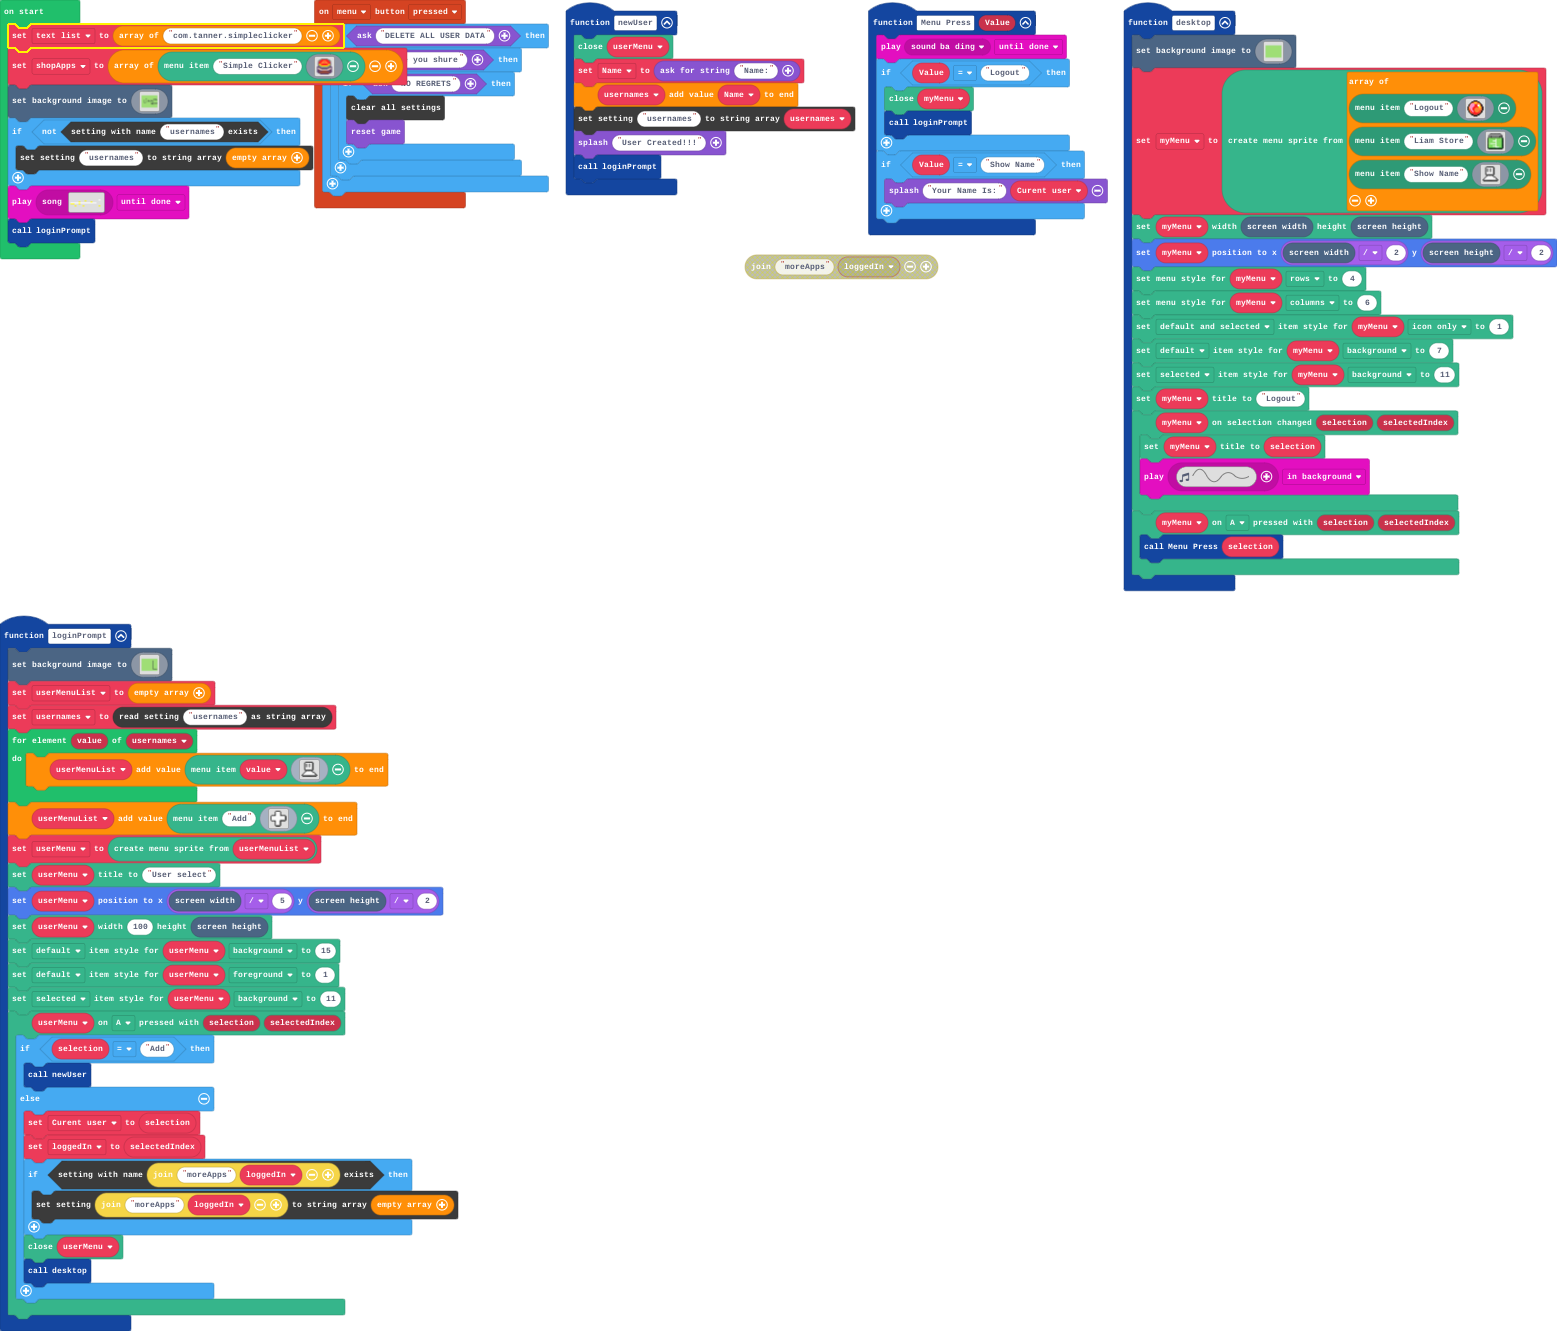
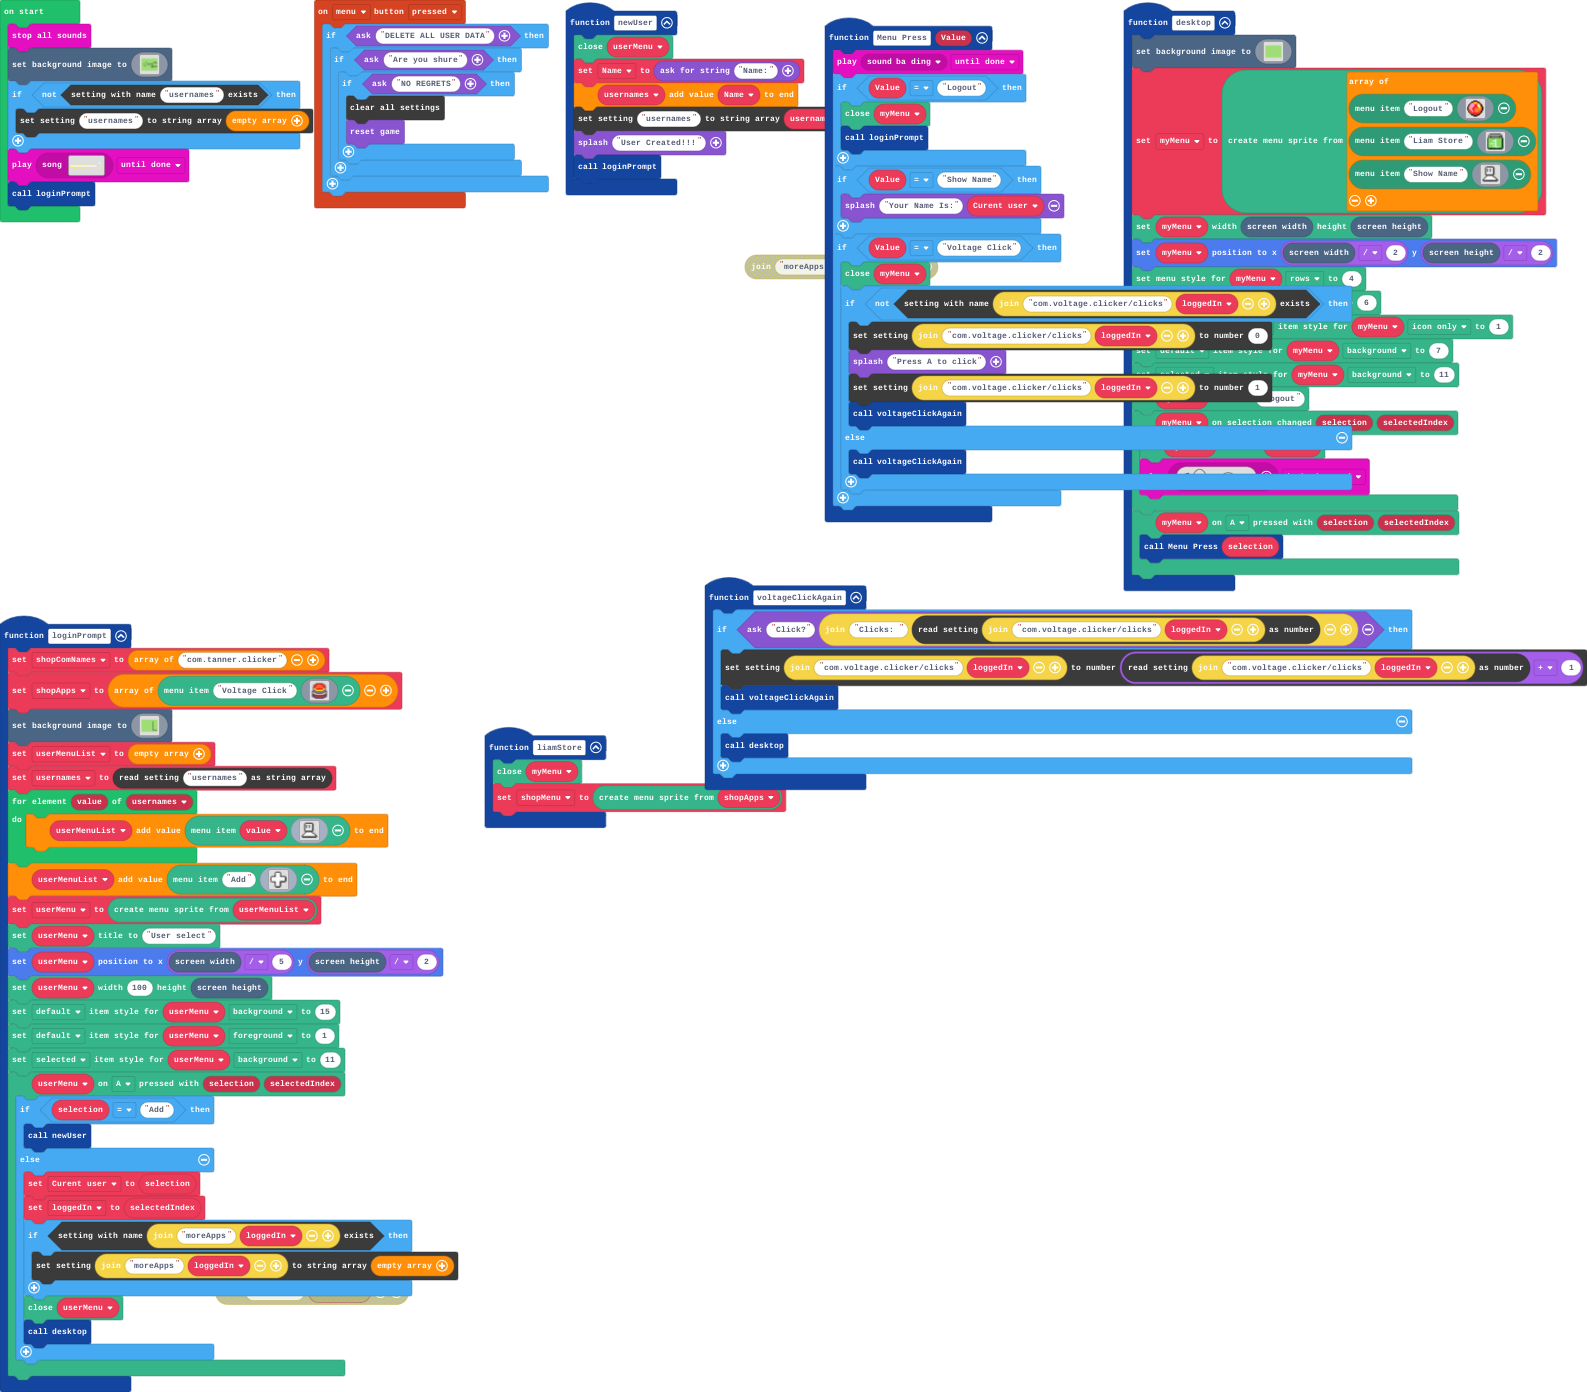
Update main.blocks, main.ts

Changed region(s): [[0.0, 0.0, 1.0, 0.6161], [0.0, 0.4313, 0.3083, 1.0]]

diff --git a/main.ts b/main.ts
@@ -1,4 +1,23 @@
 function loginPrompt () {
+    shopComNames = ["com.tanner.clicker"]
+    shopApps = [miniMenu.createMenuItem("Voltage Click", img`
+        . . . . 6 6 6 6 6 6 6 . . . . 
+        . . 6 6 2 2 2 2 2 2 2 6 6 . . 
+        . 6 6 2 2 2 4 4 4 2 2 2 6 6 . 
+        . 6 2 2 2 4 4 2 4 4 2 2 2 6 . 
+        . c 2 2 4 4 4 4 4 4 4 2 2 c . 
+        . c 5 2 4 2 2 2 2 2 4 2 5 c . 
+        . c 5 5 2 2 2 2 2 2 2 5 5 c . 
+        . c 6 6 5 5 5 5 5 5 5 6 6 c . 
+        c c 6 6 6 6 6 6 6 6 6 6 6 c c 
+        c d c c 6 6 6 6 6 6 6 c c d c 
+        c d d d c c c c c c c d d d c 
+        c c e d d d d d d d d d e c c 
+        c c c c c e e e e e c c c c c 
+        c c e e e e e e e e e e e c c 
+        . c c e e e e e e e e e c c . 
+        . . . c c c c c c c c c . . . 
+        `)]
     scene.setBackgroundImage(assets.image`Background`)
     userMenuList = []
     usernames = blockSettings.readStringArray("usernames")
@@ -124,6 +143,14 @@ function desktop () {
         Menu_Press(selection)
     })
 }
+function voltageClickAgain () {
+    if (game.ask("Click?", "Clicks: " + blockSettings.readNumber("com.voltage.clicker/clicks" + loggedIn))) {
+        blockSettings.writeNumber("com.voltage.clicker/clicks" + loggedIn, blockSettings.readNumber("com.voltage.clicker/clicks" + loggedIn) + 1)
+        voltageClickAgain()
+    } else {
+        desktop()
+    }
+}
 controller.menu.onEvent(ControllerButtonEvent.Pressed, function () {
     if (game.ask("DELETE ALL USER DATA")) {
         if (game.ask("Are you shure")) {
@@ -142,6 +169,10 @@ function newUser () {
     game.splash("User Created!!!")
     loginPrompt()
 }
+function liamStore () {
+    myMenu.close()
+    shopMenu = miniMenu.createMenuFromArray(shopApps)
+}
 function Menu_Press (Value: string) {
     music.play(music.melodyPlayable(music.baDing), music.PlaybackMode.UntilDone)
     if (Value == "Logout") {
@@ -151,7 +182,19 @@ function Menu_Press (Value: string) {
     if (Value == "Show Name") {
         game.splash("Your Name Is:", Curent_user)
     }
+    if (Value == "Voltage Click") {
+        myMenu.close()
+        if (!(blockSettings.exists("com.voltage.clicker/clicks" + loggedIn))) {
+            blockSettings.writeNumber("com.voltage.clicker/clicks" + loggedIn, 0)
+            game.splash("Press A to click")
+            blockSettings.writeNumber("com.voltage.clicker/clicks" + loggedIn, 1)
+            voltageClickAgain()
+        } else {
+            voltageClickAgain()
+        }
+    }
 }
+let shopMenu: miniMenu.MenuSprite = null
 let Name = ""
 let myMenu: miniMenu.MenuSprite = null
 let loggedIn = 0
@@ -159,25 +202,9 @@ let Curent_user = ""
 let userMenu: miniMenu.MenuSprite = null
 let usernames: string[] = []
 let userMenuList: miniMenu.MenuItem[] = []
-let text_list = ["com.tanner.simpleclicker"]
-let shopApps = [miniMenu.createMenuItem("Simple Clicker", img`
-    . . . . 6 6 6 6 6 6 6 . . . . 
-    . . 6 6 2 2 2 2 2 2 2 6 6 . . 
-    . 6 6 2 2 2 4 4 4 2 2 2 6 6 . 
-    . 6 2 2 2 4 4 2 4 4 2 2 2 6 . 
-    . c 2 2 4 4 4 4 4 4 4 2 2 c . 
-    . c 5 2 4 2 2 2 2 2 4 2 5 c . 
-    . c 5 5 2 2 2 2 2 2 2 5 5 c . 
-    . c 6 6 5 5 5 5 5 5 5 6 6 c . 
-    c c 6 6 6 6 6 6 6 6 6 6 6 c c 
-    c d c c 6 6 6 6 6 6 6 c c d c 
-    c d d d c c c c c c c d d d c 
-    c c e d d d d d d d d d e c c 
-    c c c c c e e e e e c c c c c 
-    c c e e e e e e e e e e e c c 
-    . c c e e e e e e e e e c c . 
-    . . . c c c c c c c c c . . . 
-    `)]
+let shopApps: miniMenu.MenuItem[] = []
+let shopComNames: string[] = []
+music.stopAllSounds()
 scene.setBackgroundImage(img`
     7777777777777777777777777777777777777777777777777777777777777777777777777777777777777777777777777777777777777777777777777777777777777777777777777777777777777777
     7777777777777777777777777777777777777777777777777777777777777777777777777777777777777777777777777777777777777777777777777777777777777777777777777777777777777777
